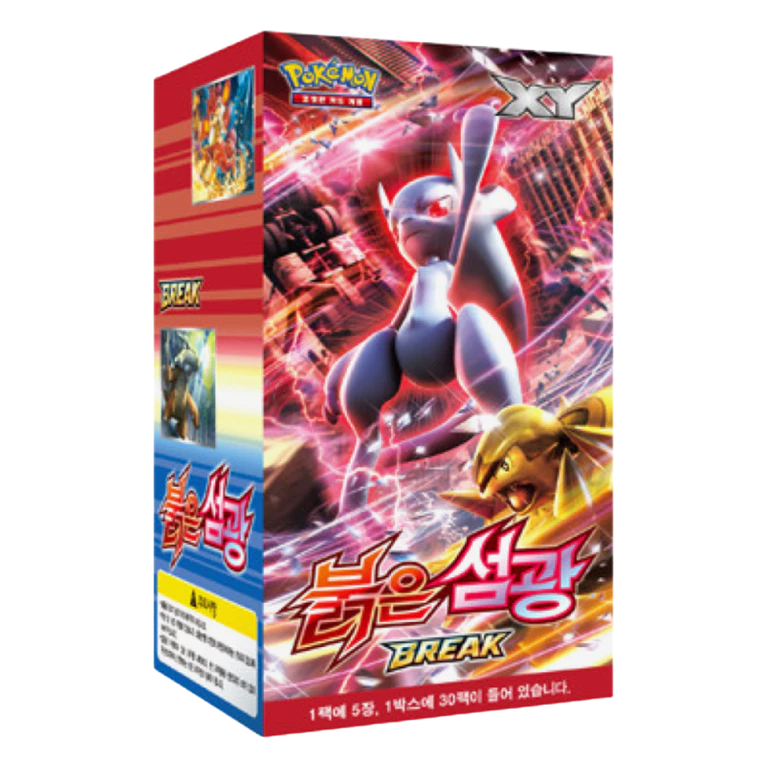
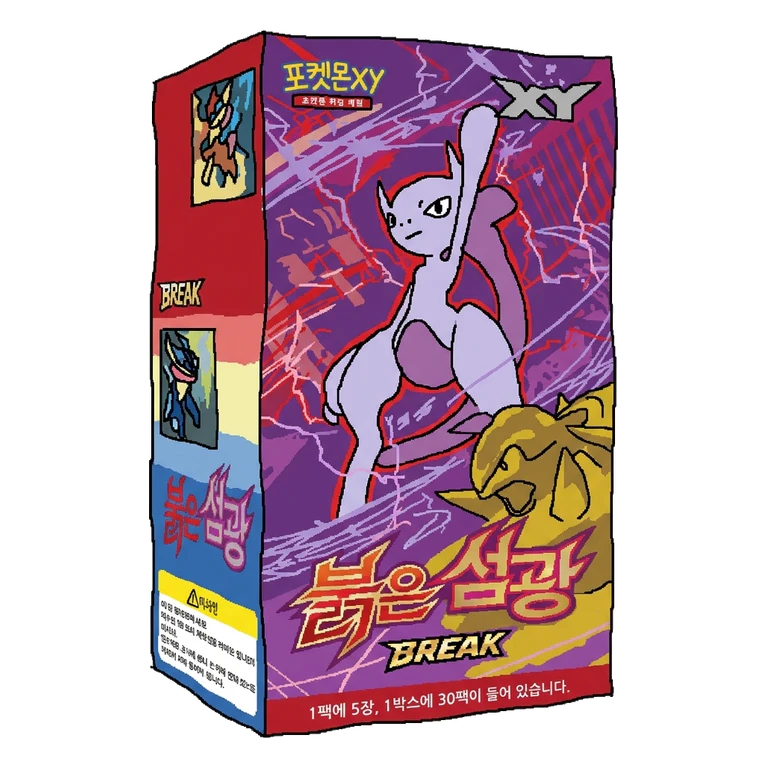
feat: 사용자 제공 신규 세트 박스 일러스트 적용

diff --git a/docs/xy-next-three-review-20261108.md b/docs/xy-next-three-review-20261108.md
@@ -20,7 +20,7 @@
 - 두 XY8 세트는 판매점 `PK-XY8-...` 번호를 공유한다. `fullahead_category_code`를 명시해 상품/이미지/가격이 다른 세트와 섞이지 않게 한다. 수집·보강·대조·coverage 스크립트가 이를 공유한다.
 - SR/UR 28장 전부 FullAhead 판매 표시가를 수집했다. `JPY × 9.5 × 0.65` 및 기존 반올림 규칙의 **해외 참고가**이며 한국 체결가가 아니다. 16/6/6장 모두 매칭되었고 고레어 미매칭은 0이다. 저레어 가격을 임의로 만들어 넣지 않는다.
 - 반짝임은 기존 가격 기준을 따른다. 새 세트의 SR/UR 등급만으로 효과를 강제하지 않는다. 10만/30만/80만원 가격 단계의 공통 효과를 회귀검사했다.
-- 박스 이미지는 사용자 검수 후 저해상도 판매점 워터마크 사진을 폐기하고 KREAM의 한국판 단일 박스 상품([밴디트링](https://kream.co.kr/products/55689), [푸른 충격](https://kream.co.kr/products/54912), [붉은 섬광](https://kream.co.kr/products/53593))의 워터마크 없는 1120×1120 투명 PNG로 교체했다. 한국어 인쇄·닫힌 박스·팩 수를 대조했으며 원본 알파를 보존해 768 PNG/WebP로 정규화했다. 원본·출처 URL·해시는 [이미지 원장](../data/manual/xy-box-image-sources-20261108.json)에 보존한다.
+- 현재 박스 이미지는 사용자가 제공한 세트별 일러스트 `original/<code>-custom-20261108.png`를 사용한다. 그림과 글자를 유지하고 외곽 흰 배경만 제거해 768 PNG/WebP로 정규화했다. 이전 KREAM 한국판 단일 박스 사진([밴디트링](https://kream.co.kr/products/55689), [푸른 충격](https://kream.co.kr/products/54912), [붉은 섬광](https://kream.co.kr/products/53593))은 상품 대조 참고로 보존한다. 적용 원본·해시·처리 설정은 [이미지 원장](../data/manual/xy-box-image-sources-20261108.json)에 기록한다.
 
 ## 봉입 모델과 한계
 

diff --git a/docs/cp3-pokekyun-review-20261108.md b/docs/cp3-pokekyun-review-20261108.md
@@ -7,7 +7,7 @@
 - [한국 공식 상품](https://pokemoncard.co.kr/card/67): 20팩×5장, 팩 1,000원·박스 20,000원. 현재 상품 헤더의 날짜는 2016-04-01이나 당시 영상 설명에는 4월 21일 발매라고 되어 있다. 데이터는 공식 헤더를 유지하며 날짜 차이를 메타에 기록했다.
 - [일본 공식 상품](https://www.pokemon-card.com/products/xy/cp3.html): 2016-01-29, 4장 팩·전 카드 홀로. 일본 개봉 박스는 20팩이다. 한국의 추가 1장을 이유로 RR 확률을 5/4배 하지 않는다.
 - 한국 공식 카드 BS2016003001~032: C 13종·U 12종·RR 7종. 피카츄와 풀아트 EX도 **RR**이다. SR/UR 및 별도 시크릿 풀을 만들지 않았다. RR은 006/007/010/019/020/025/026이다.
-- 박스 이미지는 사용자 검수 후 저해상도 판매점 워터마크 사진을 폐기하고 [KREAM 한국판 20팩 박스](https://kream.co.kr/products/755808)의 워터마크 없는 1120×1120 투명 PNG로 교체했다. 원본 알파와 인쇄를 보존하여 기존 파이프라인으로 768 PNG/WebP를 생성했다. 출처 URL·원본 해시는 [이미지 원장](../data/manual/xy-box-image-sources-20261108.json)에 기록한다.
+- 현재 박스 이미지는 사용자가 제공한 일러스트 `cp3-pokekyun-collection-custom-20261108.png`를 사용한다. 원본 그림과 글자는 유지하고 외곽 흰 배경만 제거해 기존 파이프라인으로 768 PNG/WebP를 생성했다. 이전 [KREAM 한국판 20팩 박스](https://kream.co.kr/products/755808) 사진은 상품 대조 참고로 보존한다. 적용 원본·해시·처리 설정은 [이미지 원장](../data/manual/xy-box-image-sources-20261108.json)에 기록한다.
 
 ## 중복 제거한 개봉 원장
 
